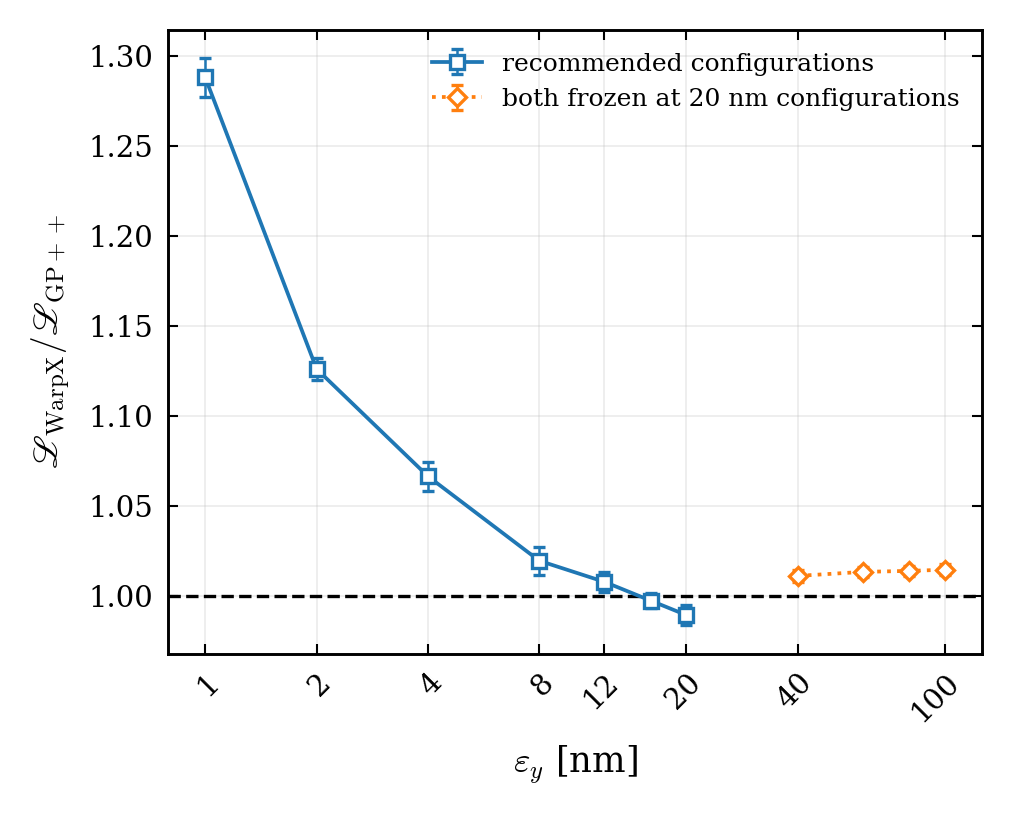
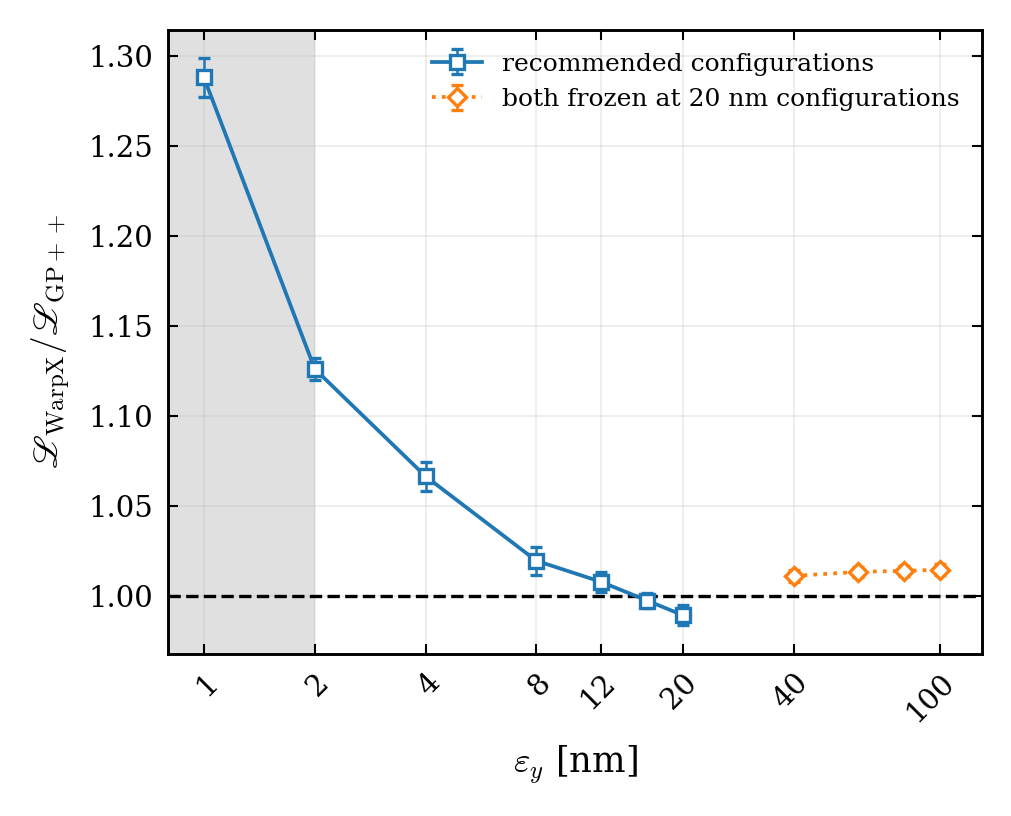
Shade e_y < 2 nm in the luminosity and code-ratio figures, where the recommended GP++ macroparticle count exceeds its tuning ladder

diff --git a/plot_comparison.py b/plot_comparison.py
@@ -42,6 +42,15 @@ STYLE = {
 }
 
 
+# below this e_y the recommended GUINEA-PIG++ macroparticle count exceeds the largest n_m simulated in that
+# emittance's tuning ladder; shaded in the figures that use the recommended GP++ configuration
+GP_EXTRAP_BELOW_NM = 2.0
+
+
+def shade_gp_extrapolated(ax, x0):
+    ax.axvspan(x0, GP_EXTRAP_BELOW_NM, color="0.88", lw=0, zorder=0)
+
+
 def L_geom(e_y_nm):
     sy = Q.sigma_y(e_y_nm); sx = Q.SIGMA_X
     return F_COLL * Q.N_PART ** 2 / (4 * math.pi * sx * sy * 1e4) / 1e34   # cm^-2 s^-1 / 1e34
@@ -125,6 +134,7 @@ def draw(kind):
         tks = [v for v in Q.EYS if v not in (0.5, 1)] + [0.5] + (Q.EYS_EXT if have_ext else [])   # thin the crowded low end
         if kind in ("L", "HD"):
             ax.set_xlim(0, 21)
+            shade_gp_extrapolated(ax, 0)
         ax.xaxis.set_major_locator(mticker.FixedLocator(sorted(tks)))
         ax.xaxis.set_major_formatter(mticker.FixedFormatter([f"{v:g}" for v in sorted(tks)]))
         ax.xaxis.set_minor_locator(mticker.NullLocator())

diff --git a/plot_extension.py b/plot_extension.py
@@ -84,6 +84,7 @@ def draw_code_ratio():
         ax.errorbar(*frz[:2], yerr=frz[2], fmt="D", ls=":", color="C1", ecolor="C1", mfc="white", capsize=1.5, elinewidth=0.6,
                     lw=0.9, ms=3.2, markeredgewidth=0.8, zorder=5, label=r"both frozen at 20 nm configurations")
         ax.set_xscale("log")                              # 1-100 nm: log axis so every tick label has room
+        ax.set_xlim(0.8, 130); PC.shade_gp_extrapolated(ax, 0.8)
         tks = [1, 2, 4, 8, 12, 20, 40, 100]                # thinned so the rotated labels never touch
         ax.xaxis.set_major_locator(mticker.FixedLocator(tks)); ax.xaxis.set_major_formatter(mticker.FixedFormatter([f"{v:g}" for v in tks]))
         ax.xaxis.set_minor_locator(mticker.NullLocator())
